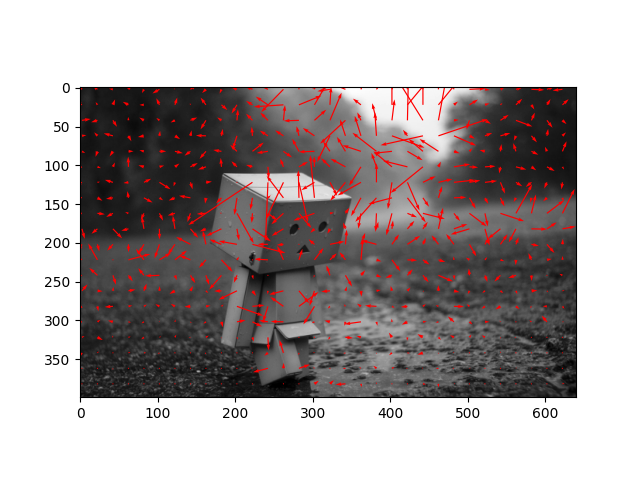
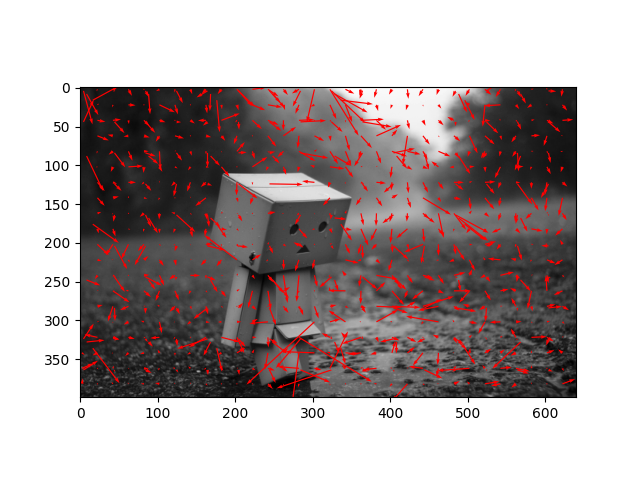
add comments

diff --git a/ex3_utils.py b/ex3_utils.py
@@ -67,19 +67,13 @@ def opticalFlow(im1: np.ndarray, im2: np.ndarray, step_size=10,
     return np.array(x_y), np.array(u_v)
 
 
-def expand_LK(img):
-    h = img.shape[0] * 2
-    w = img.shape[1] * 2
-    if len(img.shape) > 2:
-        newImg = np.zeros((h, w, 3))
-    else:
-        newImg = np.zeros((h, w))
-
-    newImg[::2, ::2] = img
-    return newImg
+def check(p, points):
+    for i in points:
+        if np.array_equal(p, i):
+            return True
+    return False
 
 
-# TODO zeros
 def opticalFlowPyrLK(img1: np.ndarray, img2: np.ndarray, k: int,
                      stepSize: int, winSize: int) -> np.ndarray:
     """
@@ -91,30 +85,34 @@ def opticalFlowPyrLK(img1: np.ndarray, img2: np.ndarray, k: int,
     :return: A 3d array, with a shape of (m, n, 2),
     where the first channel holds U, and the second V.
     """
-
-    # expand the image with zeros then fill in the blanks with the last layer image
     im1_pyrs = gaussianPyr(img1, k)
     im1_pyrs.reverse()
     im2_pyrs = gaussianPyr(img2, k)
     im2_pyrs.reverse()
 
-    points_i = []
-    vectors_i = []
-    for i in range(len(im2_pyrs)):
+    points, vectors = opticalFlow(im1_pyrs[0], im2_pyrs[0], step_size=stepSize, win_size=winSize)
+    points = list(points)
+    vectors = list(vectors)
+
+    for i in range(1, len(im2_pyrs)):
+        for j in range(len(points)):
+            for k in range(len(points[j])):
+                points[j][k] *= 2
+            for k in range(len(vectors[j])):
+                vectors[j][k] *= 2
+
         points_i, vectors_i = opticalFlow(im1_pyrs[i], im2_pyrs[i], step_size=stepSize, win_size=winSize)
-        new_img = expand_LK(im1_pyrs[i])
-        # cv
+        points_i = list(points_i)
+        vectors_i = list(vectors_i)
 
         for j in range(len(points_i)):
-            new_img[points_i[j][0]] += 2 * vectors_i[j][0]
-            new_img[points_i[j][1]] += 2 * vectors_i[j][1]
+            if not check(list(points_i[j]), points):
+                points.append(points_i[j])
+                vectors.append(vectors_i[j])
+            else:
+                vectors[points.index(points_i[j])] += vectors_i[j]
 
-        if i < len(im2_pyrs)-1:
-            new_img += im1_pyrs[i+1]
-            im1_pyrs[i+1] = new_img/255
-
-    return vectors_i, points_i
-
+    return np.array(vectors), np.array(points)
 
 # ---------------------------------------------------------------------------
 # ------------------------ Image Alignment & Warping ------------------------

diff --git a/ex3_main.py b/ex3_main.py
@@ -45,8 +45,8 @@ def hierarchicalkDemo(img_path):
     print("hierarchical Demo")
     img_1 = cv2.cvtColor(cv2.imread(img_path), cv2.COLOR_BGR2GRAY)
     img_1 = cv2.resize(img_1, (0, 0), fx=.5, fy=0.5)
-    t = np.array([[1, 0, 0],
-                  [0, 1, 0],
+    t = np.array([[1, 0, 3],
+                  [0, 1, -5],
                   [0, 0, 1]], dtype=np.float)
     img_2 = cv2.warpPerspective(img_1, t, img_1.shape[::-1])
 
@@ -59,7 +59,7 @@ def hierarchicalkDemo(img_path):
     return uv, pts
 
 
-def lkDemo(img_path, t):
+def lkDemot(img_path, t):
     img_1 = cv2.cvtColor(cv2.imread(img_path), cv2.COLOR_BGR2GRAY)
     img_1 = cv2.resize(img_1, (0, 0), fx=.5, fy=0.5)
     img_2 = cv2.warpPerspective(img_1, t, img_1.shape[::-1])
@@ -68,7 +68,7 @@ def lkDemo(img_path, t):
     return pts, uv
 
 
-def hierarchicalkDemo(img_path, t):
+def hierarchicalkDemot(img_path, t):
     img_1 = cv2.cvtColor(cv2.imread(img_path), cv2.COLOR_BGR2GRAY)
     img_1 = cv2.resize(img_1, (0, 0), fx=.5, fy=0.5)
     img_2 = cv2.warpPerspective(img_1, t, img_1.shape[::-1])
@@ -85,11 +85,11 @@ def compareLK(img_path):
     :return:
     """
     print("Compare LK & Hierarchical LK")
-    t = np.array([[1, 0, 0],
-                  [0, 1, 0],
+    t = np.array([[1, 0, 3],
+                  [0, 1, -5],
                   [0, 0, 1]], dtype=np.float)
-    lkDemo(img_path, t)
-    hierarchicalkDemo(img_path, t)
+    lkDemot(img_path, t)
+    hierarchicalkDemot(img_path, t)
 
     lk = 'lucas-kanade.png'
     lkh = 'hierarchical lucas-kanade.png'
@@ -369,7 +369,7 @@ def main():
     #
     # compareLK(img_path)
     # print("\n")
-    #
+
     # imageWarpingDemo(img_path)
     # print("\n")
     #
